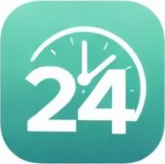
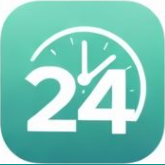
Switch pharmacy to mock-only provider flow

diff --git a/apps/api/src/modules/pharmacy/pharmacy.module.ts b/apps/api/src/modules/pharmacy/pharmacy.module.ts
@@ -1,10 +1,8 @@
 import { Module } from '@nestjs/common';
-import { ConfigService } from '@nestjs/config';
 import { PharmacyController } from './pharmacy.controller';
 import { PharmacyService } from './pharmacy.service';
 import { PharmacyOrderService } from './pharmacy-order.service';
 import { MockPharmacyProvider } from './providers/mock-pharmacy.provider';
-import { PharmEasyProvider } from './providers/pharmeasy.provider';
 import { PharmacyPartnerProvider } from './providers/pharmacy-partner.interface';
 import { PharmacyWebhookService } from './webhooks/pharmacy-webhook.service';
 import { PrismaService } from '../../common/prisma/prisma.service';
@@ -15,29 +13,19 @@ export const PHARMACY_PROVIDERS_MAP = 'PHARMACY_PROVIDERS_MAP';
   controllers: [PharmacyController],
   providers: [
     MockPharmacyProvider,
-    PharmEasyProvider,
     PharmacyWebhookService,
     {
       provide: PHARMACY_PROVIDERS_MAP,
       useFactory: (
-        config: ConfigService,
         mockProvider: MockPharmacyProvider,
-        pharmEasyProvider: PharmEasyProvider,
       ): Map<string, PharmacyPartnerProvider> => {
-        const providerMode = config
-          .get<string>('PHARMACY_PROVIDER_MODE', 'mock')
-          ?.toLowerCase();
-        const externalProvider =
-          providerMode === 'live' ? pharmEasyProvider : mockProvider;
         const map = new Map<string, PharmacyPartnerProvider>();
         map.set('mock', mockProvider);
         map.set('demo-pharmacy', mockProvider);
         map.set('demo-pharmacy-express', mockProvider);
-        map.set('pharmeasy', externalProvider);
-        map.set('pharmeasy-express', externalProvider);
         return map;
       },
-      inject: [ConfigService, MockPharmacyProvider, PharmEasyProvider],
+      inject: [MockPharmacyProvider],
     },
     {
       provide: PharmacyService,

diff --git a/apps/mobile/app.config.ts b/apps/mobile/app.config.ts
@@ -4,6 +4,7 @@
 
 const IS_STAGING = process.env.APP_ENV === 'staging';
 const IS_PRODUCTION = process.env.APP_ENV === 'production';
+const EAS_PROJECT_ID = '32ba7225-63f2-4092-95e5-1e24cb77d6a2';
 
 const getAppName = (): string => {
   if (IS_STAGING) return 'Curex24 Staging';
@@ -47,7 +48,6 @@ export default ({ config }: { config: Record<string, unknown> }) => ({
       backgroundColor: '#0D9488',
     },
     package: getBundleId(),
-    useNextNotificationsApi: true,
   },
   web: {
     favicon: './assets/icon.png',
@@ -59,7 +59,7 @@ export default ({ config }: { config: Record<string, unknown> }) => ({
     supabaseUrl: process.env.EXPO_PUBLIC_SUPABASE_URL || '',
     supabaseAnonKey: process.env.EXPO_PUBLIC_SUPABASE_ANON_KEY || '',
     eas: {
-      projectId: process.env.EAS_PROJECT_ID || '',
+      projectId: process.env.EAS_PROJECT_ID || EAS_PROJECT_ID,
     },
   },
   plugins: [

diff --git a/apps/mobile/plugins/withStaticEntryFile.js b/apps/mobile/plugins/withStaticEntryFile.js
@@ -1,4 +1,4 @@
-const { withAppBuildGradle } = require("@expo/config-plugins");
+const { withAppBuildGradle } = require("expo/config-plugins");
 
 module.exports = function withStaticEntryFile(config) {
   return withAppBuildGradle(config, (config) => {
@@ -11,7 +11,7 @@ module.exports = function withStaticEntryFile(config) {
         line.includes("execute")
       ) {
         const indent = (line.match(/^\s*/) || [""])[0];
-        return `${indent}entryFile = file("index.js")`;
+        return `${indent}entryFile = file("../../index.js")`;
       }
       return line;
     });

diff --git a/apps/api/src/modules/pharmacy/pharmacy.controller.ts b/apps/api/src/modules/pharmacy/pharmacy.controller.ts
@@ -23,7 +23,7 @@ export class PharmacyController {
   ) {}
 
   /**
-   * GET /pharmacy/medicines/search?query=paracetamol&partner=pharmeasy
+   * GET /pharmacy/medicines/search?query=paracetamol&partner=demo-pharmacy
    * Search medicines across one or all active pharmacy partners.
    */
   @Get('medicines/search')

diff --git a/packages/database/prisma/seed-staging.ts b/packages/database/prisma/seed-staging.ts
@@ -83,7 +83,6 @@ async function main() {
 
   const providerApiBaseUrl =
     process.env.PHARMACY_PARTNER_API_URL ??
-    process.env.PHARMEASY_API_URL ??
     'https://mock-pharmacy.invalid';
   for (const partner of PHARMACY_PARTNERS) {
     await prisma.pharmacyPartner.upsert({